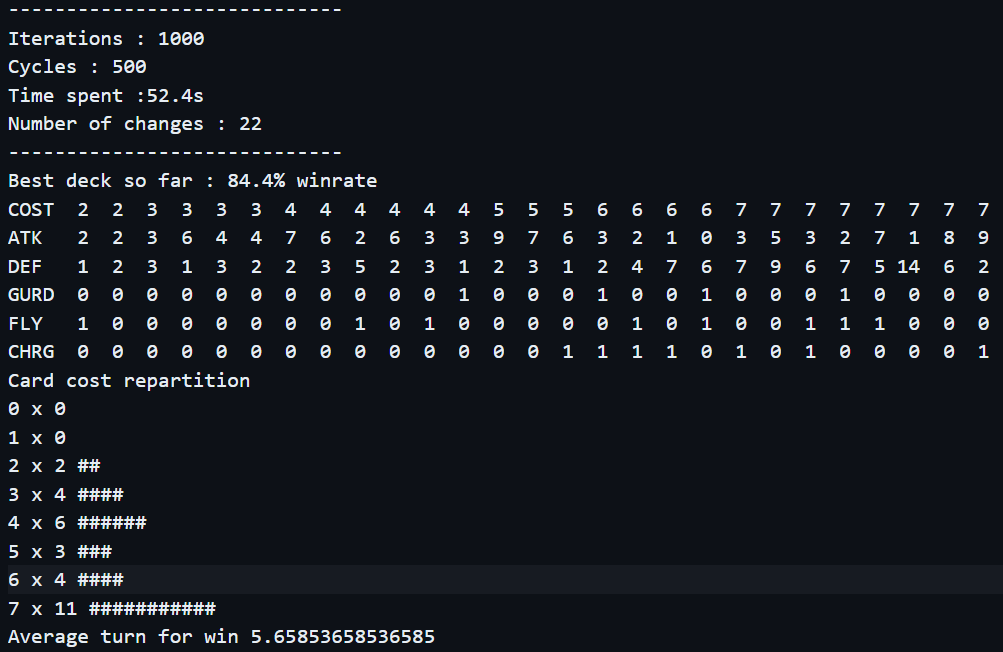
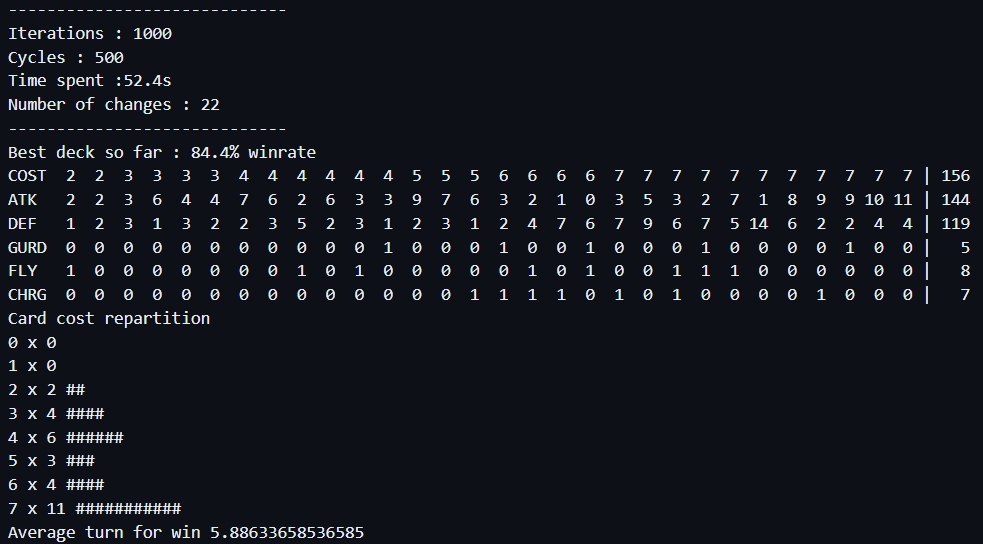
setlist

Changed region(s): [[0.0, 0.0, 1.0, 1.0]]

diff --git a/README.md b/README.md
@@ -18,6 +18,9 @@ The objective of this experiment is to try out a variety of optimization techniq
   - [Mana curve](#mana-curve)
   - [Bonus: Impact of changing the rating score (WR/NBT rating)](#bonus-impact-of-changing-the-rating-score-wrnbt-rating)
 - [Rated Setlist](#rated-setlist)
+  - [Win rate evolution](#win-rate-evolution-1)
+  - [Number of turns](#number-of-turns-1)
+  - [Mana curve](#mana-curve-1)
 - [Reinforced training](#reinforced-training)
   - [Rapport](#rapport)
 
@@ -111,9 +114,26 @@ Regarding mana curve, we end up with 1-2 and 3 cost cards being added to the dec
 # Rated Setlist
 
 We now rate added/removed cards according to their impact in win ratio.
-Here is the result over 1000 iterations :
+Here is the result over 1000 iterations
 
 This system sometimes achieves 100% winrate in under 600 iterations, according to the opponent deck.
+
+![](screenshots/2-setlist-simulation.png)
+
+## Win rate evolution
+The win-rate improves faster then with the Monte Carlo method and reach a plateau around step 100.  
+
+![](screenshots/2-setlist-win-rate.png)
+
+## Number of turns
+The number of turns follows the same pattern, quickly ending around 5.8 turns on average.
+
+![](screenshots/2-setlist-nbt.png)
+
+## Mana curve
+Surprisingly, the deck ends up filled with 7 cost cards, at the cost ok 4-5-6 cards being removed from the deck.
+
+![](screenshots/2-setlist-mana-curve.png)
 
 # Reinforced training
 Opponent deck copy player deck when winrate is over 95%, for 2000 iterations.
